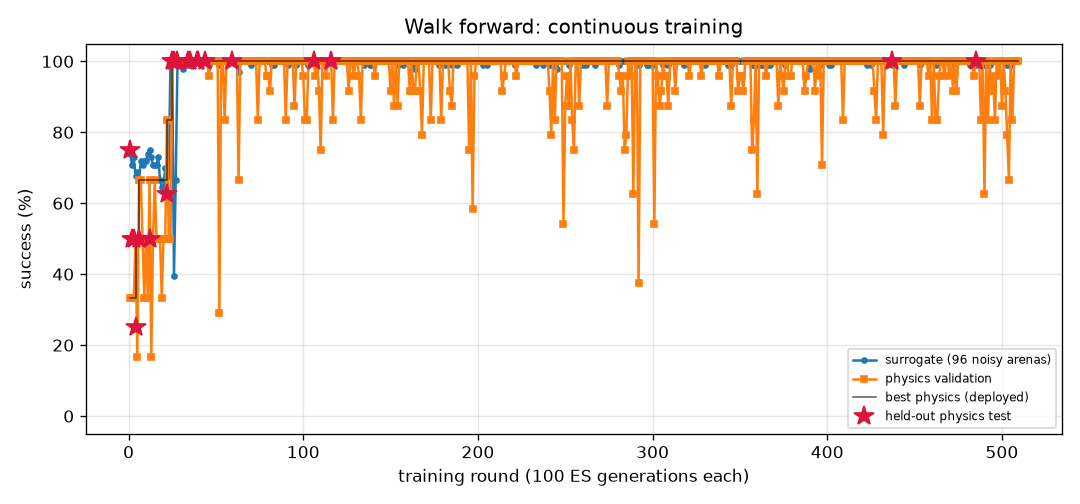
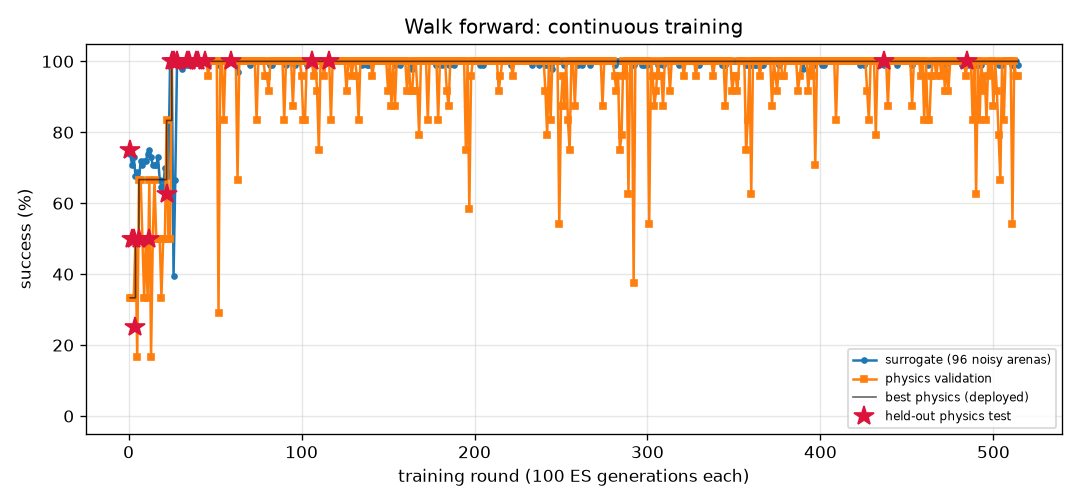
FlyLab: continuous training progress
- walk_forward: optimal, physics val 100% of 24, round 514
- turn: optimal, physics val 100% of 24, round 1311
- goto: optimal, physics val 100% of 24, round 397
- odor_seek: optimal, physics val 100% of 24, round 319
- odor_avoid: optimal, physics val 100% of 24, round 1106
- light_seek: optimal, physics val 100% of 24, round 599
- light_avoid: optimal, physics val 100% of 24, round 821

diff --git a/projects/09_flylab/training/walk_forward/REPORT.md b/projects/09_flylab/training/walk_forward/REPORT.md
@@ -1,14 +1,14 @@
 # Walk forward (`walk_forward`) — training report
 
-*Auto-generated by `train_brains.py`, last updated 2026-11-23T14:49:27.*
+*Auto-generated by `train_brains.py`, last updated 2026-11-23T18:19:44.*
 
 ![curve](curve.png)
 
 | | |
 |---|---|
-| rounds | 509 |
-| ES generations | 50900 |
-| physics runs | 12294 |
+| rounds | 514 |
+| ES generations | 51400 |
+| physics runs | 12414 |
 | status | **optimal** |
 | best brain | round 485: physics validation **100%** on 24 arenas, surrogate 100% |
 | held-out physics test | **100%** on 32 unseen arenas (95% CI 89%-100%) (errors: [0.14, 0.13, 0.15, 0.21, 0.14, 0.12, 0.13, 0.18, 0.2, 0.15, 0.13, 0.14, 0.2, 0.15, 0.12, 0.12, 0.14, 0.14, 0.13, 0.13, 0.14, 0.21, 0.14, 0.13, 0.14, 0.14, 0.18, 0.14, 0.14, 0.14, 0.17, 0.15]) |
@@ -17,11 +17,6 @@ Physics error per arena: mm from target at the end (< 1.5 and standing still = s
 
 | round | level | gens | sigma | surrogate | physics val | val errors | test | note |
 |---:|---:|---:|---:|---:|---:|---|---:|---|
-| 470 | 3 | 47000 | 0.025 | 100% | 96% | [0.18, 0.26, 0.15, 0.19, 0.26, 0.51, 0.26, 0.02, 0.26, 0.26, 0.17, 0.24, 0.05, 0.66, 0.21, 0.25, 0.17, 0.25, 0.03, 0.23, 0.2, 0.26, 0.23, 0.36] |  |  |
-| 471 | 3 | 47100 | 0.024 | 100% | 100% | [0.35, 0.33, 0.31, 0.35, 0.33, 0.29, 0.33, 0.33, 0.33, 0.31, 0.27, 0.29, 0.32, 0.29, 0.34, 0.3, 0.35, 0.33, 0.33, 0.34, 0.33, 0.31, 0.29, 0.32] |  |  |
-| 472 | 3 | 47200 | 0.024 | 99% | 92% | [0.17, 0.19, 1.25, 0.17, 0.19, 0.04, 0.2, 0.12, 0.2, 0.18, 0.02, 0.17, 0.13, 0.83, 0.18, 0.18, 0.16, 0.19, 0.13, 0.18, 0.14, 0.19, 0.07, 0.13] |  |  |
-| 473 | 3 | 47300 | 0.025 | 100% | 100% | [0.28, 0.31, 0.28, 0.29, 0.3, 0.27, 0.31, 0.29, 0.31, 0.32, 0.27, 0.34, 0.28, 0.28, 0.29, 0.33, 0.29, 0.3, 0.29, 0.29, 0.28, 0.33, 0.34, 0.28] |  | restart from best |
-| 474 | 3 | 47400 | 0.025 | 100% | 92% | [0.09, 0.22, 0.04, 0.1, 0.22, 0.06, 0.23, 0.11, 0.23, 0.26, 0.07, 0.25, 0.11, 0.27, 0.12, 0.25, 0.1, 0.2, 0.04, 0.07, 0.1, 0.26, 0.25, 0.1] |  |  |
 | 475 | 3 | 47500 | 0.024 | 100% | 100% | [0.24, 0.3, 0.21, 0.24, 0.3, 0.21, 0.3, 0.21, 0.3, 0.29, 0.22, 0.28, 0.2, 0.21, 0.25, 0.29, 0.23, 0.29, 0.2, 0.26, 0.21, 0.29, 0.27, 0.21] |  |  |
 | 476 | 3 | 47600 | 0.024 | 100% | 100% | [0.18, 0.23, 0.18, 0.18, 0.23, 0.18, 0.23, 0.19, 0.23, 0.24, 0.18, 0.23, 0.18, 0.18, 0.19, 0.23, 0.18, 0.22, 0.18, 0.2, 0.18, 0.24, 0.22, 0.18] |  |  |
 | 477 | 3 | 47700 | 0.024 | 100% | 100% | [0.22, 0.24, 0.22, 0.22, 0.24, 0.22, 0.25, 0.23, 0.25, 0.28, 0.22, 0.29, 0.23, 0.22, 0.21, 0.29, 0.21, 0.23, 0.22, 0.22, 0.22, 0.28, 0.29, 0.23] |  | restart from best |
@@ -57,3 +52,8 @@ Physics error per arena: mm from target at the end (< 1.5 and standing still = s
 | 507 | 3 | 50700 | 0.024 | 100% | 100% | [0.1, 0.13, 0.17, 0.07, 0.11, 0.17, 0.15, 0.17, 0.14, 0.19, 0.16, 0.21, 0.17, 0.16, 0.08, 0.21, 0.09, 0.1, 0.17, 0.09, 0.07, 0.2, 0.22, 0.17] |  |  |
 | 508 | 3 | 50800 | 0.024 | 100% | 100% | [0.2, 0.3, 0.23, 0.19, 0.3, 0.25, 0.31, 0.22, 0.3, 0.35, 0.26, 0.34, 0.22, 0.24, 0.21, 0.34, 0.19, 0.26, 0.22, 0.21, 0.2, 0.35, 0.33, 0.22] |  |  |
 | 509 | 3 | 50900 | 0.024 | 100% | 100% | [0.06, 0.07, 0.08, 0.1, 0.06, 0.09, 0.21, 0.1, 0.19, 0.08, 0.1, 0.09, 0.08, 0.08, 0.02, 0.04, 0.08, 0.2, 0.05, 0.08, 0.09, 0.1, 0.08, 0.08] |  | restart from best |
+| 510 | 3 | 51000 | 0.024 | 100% | 100% | [0.33, 0.34, 0.26, 0.33, 0.34, 0.25, 0.34, 0.29, 0.33, 0.32, 0.24, 0.31, 0.28, 0.25, 0.34, 0.32, 0.33, 0.34, 0.29, 0.34, 0.3, 0.33, 0.3, 0.29] |  |  |
+| 511 | 3 | 51100 | 0.024 | 99% | 54% | [0.04, 1.28, 0.04, 0.7, 0.41, 0.06, 2.54, 0.05, 0.34, 0.48, 0.04, 0.08, 0.05, 1.59, 1.42, 0.27, 0.07, 0.18, 0.05, 1.69, 0.06, 0.06, 0.5, 0.06] |  |  |
+| 512 | 3 | 51200 | 0.025 | 100% | 100% | [0.3, 0.31, 0.09, 0.3, 0.31, 0.25, 0.31, 0.27, 0.31, 0.22, 0.02, 0.2, 0.27, 0.06, 0.31, 0.21, 0.29, 0.3, 0.28, 0.31, 0.28, 0.23, 0.22, 0.27] |  |  |
+| 513 | 3 | 51300 | 0.024 | 100% | 96% | [0.24, 0.28, 0.05, 0.24, 0.28, 0.06, 0.29, 0.22, 0.28, 0.29, 0.09, 0.28, 0.08, 0.03, 0.25, 0.28, 0.23, 0.27, 0.07, 0.26, 0.22, 0.29, 0.28, 0.07] |  | restart from best |
+| 514 | 3 | 51400 | 0.024 | 99% | 96% | [0.23, 0.23, 0.13, 0.22, 0.24, 0.07, 0.23, 0.19, 0.23, 0.23, 0.27, 0.2, 0.19, 0.03, 0.23, 0.21, 0.21, 0.25, 0.2, 0.24, 0.2, 0.23, 0.09, 0.18] |  |  |

diff --git a/projects/09_flylab/training/goto/REPORT.md b/projects/09_flylab/training/goto/REPORT.md
@@ -1,14 +1,14 @@
 # Go to a location (`goto`) — training report
 
-*Auto-generated by `train_brains.py`, last updated 2026-11-23T17:24:45.*
+*Auto-generated by `train_brains.py`, last updated 2026-11-23T18:09:50.*
 
 ![curve](curve.png)
 
 | | |
 |---|---|
-| rounds | 394 |
-| ES generations | 39400 |
-| physics runs | 9406 |
+| rounds | 397 |
+| ES generations | 39700 |
+| physics runs | 9478 |
 | status | **optimal** |
 | best brain | round 176: physics validation **100%** on 24 arenas, surrogate 100% |
 | held-out physics test | **100%** on 32 unseen arenas (95% CI 89%-100%) (errors: [0.2, 0.32, 0.19, 0.24, 0.18, 0.2, 0.19, 0.17, 0.22, 0.23, 0.23, 0.26, 0.2, 0.19, 0.24, 0.23, 0.22, 0.24, 0.2, 0.22, 0.2, 0.2, 0.26, 0.19, 0.22, 0.18, 0.26, 0.22, 0.2, 0.26, 0.23, 0.23]) |
@@ -17,9 +17,6 @@ Physics error per arena: mm from target at the end (< 1.5 and standing still = s
 
 | round | level | gens | sigma | surrogate | physics val | val errors | test | note |
 |---:|---:|---:|---:|---:|---:|---|---:|---|
-| 355 | 3 | 35500 | 0.024 | 99% | 100% | [0.54, 0.54, 0.4, 0.43, 0.4, 0.44, 0.49, 0.45, 0.47, 0.39, 0.39, 0.41, 0.49, 0.43, 0.42, 0.47, 0.54, 0.42, 0.39, 0.47, 0.44, 0.38, 0.52, 0.45] |  |  |
-| 356 | 3 | 35600 | 0.025 | 100% | 100% | [0.62, 0.58, 0.44, 0.45, 0.43, 0.46, 0.6, 0.45, 0.51, 0.45, 0.43, 0.45, 0.56, 0.43, 0.48, 0.49, 0.55, 0.49, 0.45, 0.5, 0.48, 0.45, 0.55, 0.46] |  | restart from best |
-| 357 | 3 | 35700 | 0.024 | 100% | 100% | [0.57, 0.53, 0.47, 0.52, 0.42, 0.47, 0.57, 0.54, 0.56, 0.45, 0.45, 0.52, 0.58, 0.43, 0.52, 0.49, 0.59, 0.47, 0.44, 0.56, 0.46, 0.49, 0.59, 0.49] |  |  |
 | 358 | 3 | 35800 | 0.024 | 99% | 100% | [0.53, 0.45, 0.44, 0.49, 0.39, 0.43, 0.5, 0.47, 0.5, 0.41, 0.43, 0.47, 0.52, 0.38, 0.47, 0.43, 0.55, 0.42, 0.4, 0.55, 0.39, 0.46, 0.5, 0.46] |  |  |
 | 359 | 3 | 35900 | 0.025 | 92% | 100% | [0.26, 0.26, 0.19, 0.26, 0.19, 0.23, 0.24, 0.28, 0.27, 0.19, 0.2, 0.24, 0.28, 0.22, 0.21, 0.25, 0.29, 0.24, 0.18, 0.27, 0.23, 0.19, 0.29, 0.25] |  |  |
 | 360 | 3 | 36000 | 0.029 | 99% | 100% | [0.65, 0.61, 0.59, 0.54, 0.48, 0.52, 0.66, 0.57, 0.61, 0.5, 0.48, 0.53, 0.62, 0.46, 0.56, 0.51, 0.65, 0.53, 0.5, 0.6, 0.51, 0.56, 0.62, 0.56] |  | restart from best |
@@ -57,3 +54,6 @@ Physics error per arena: mm from target at the end (< 1.5 and standing still = s
 | 392 | 3 | 39200 | 0.024 | 100% | 100% | [0.48, 0.46, 0.34, 0.42, 0.32, 0.39, 0.49, 0.42, 0.47, 0.36, 0.33, 0.4, 0.49, 0.35, 0.4, 0.42, 0.51, 0.39, 0.34, 0.49, 0.39, 0.39, 0.5, 0.41] |  | restart from best |
 | 393 | 3 | 39300 | 0.024 | 100% | 100% | [0.39, 0.39, 0.33, 0.4, 0.32, 0.38, 0.42, 0.42, 0.39, 0.35, 0.34, 0.4, 0.4, 0.35, 0.38, 0.37, 0.44, 0.36, 0.35, 0.38, 0.34, 0.38, 0.42, 0.42] |  |  |
 | 394 | 3 | 39400 | 0.024 | 99% | 100% | [0.63, 0.57, 0.47, 0.61, 0.46, 0.57, 0.57, 0.64, 0.65, 0.46, 0.52, 0.59, 0.67, 0.49, 0.5, 0.54, 0.62, 0.59, 0.46, 0.65, 0.5, 0.5, 0.63, 0.62] |  |  |
+| 395 | 3 | 39500 | 0.025 | 100% | 100% | [0.56, 0.58, 0.44, 0.49, 0.43, 0.49, 0.54, 0.56, 0.54, 0.42, 0.42, 0.46, 0.57, 0.47, 0.5, 0.49, 0.59, 0.49, 0.42, 0.53, 0.48, 0.41, 0.57, 0.53] |  |  |
+| 396 | 3 | 39600 | 0.024 | 99% | 100% | [0.45, 0.4, 0.41, 0.37, 0.3, 0.34, 0.4, 0.38, 0.43, 0.32, 0.33, 0.37, 0.42, 0.31, 0.36, 0.35, 0.44, 0.34, 0.3, 0.41, 0.33, 0.34, 0.43, 0.35] |  | restart from best |
+| 397 | 3 | 39700 | 0.024 | 98% | 100% | [0.25, 0.25, 0.2, 0.24, 0.18, 0.23, 0.23, 0.26, 0.28, 0.16, 0.19, 0.22, 0.26, 0.2, 0.14, 0.21, 0.26, 0.25, 0.17, 0.25, 0.2, 0.18, 0.26, 0.25] |  |  |

diff --git a/projects/09_flylab/training/odor_seek/REPORT.md b/projects/09_flylab/training/odor_seek/REPORT.md
@@ -1,14 +1,14 @@
 # Find food by smell (`odor_seek`) — training report
 
-*Auto-generated by `train_brains.py`, last updated 2026-11-23T15:00:58.*
+*Auto-generated by `train_brains.py`, last updated 2026-11-23T18:27:18.*
 
 ![curve](curve.png)
 
 | | |
 |---|---|
-| rounds | 318 |
-| ES generations | 31800 |
-| physics runs | 7126 |
+| rounds | 319 |
+| ES generations | 31900 |
+| physics runs | 7150 |
 | status | **optimal** |
 | best brain | round 240: physics validation **100%** on 24 arenas, surrogate 100% |
 | held-out physics test | **100%** on 32 unseen arenas (95% CI 89%-100%) (errors: [0.02, 0.03, 0.03, 0.05, 0.04, 0.05, 0.06, 0.07, 0.09, 0.05, 0.05, 0.01, 0.12, 0.03, 0.07, 0.08, 0.02, 0.06, 0.03, 0.04, 0.0, 0.01, 0.09, 0.05, 0.04, 0.01, 0.07, 0.05, 0.08, 0.05, 0.05, 0.02]) |
@@ -17,7 +17,6 @@ Physics error per arena: mm from target at the end (< 1.5 and standing still = s
 
 | round | level | gens | sigma | surrogate | physics val | val errors | test | note |
 |---:|---:|---:|---:|---:|---:|---|---:|---|
-| 279 | 3 | 27900 | 0.024 | 100% | 100% | [0.23, 0.22, 0.19, 0.22, 0.17, 0.16, 0.21, 0.19, 0.29, 0.19, 0.26, 0.27, 0.16, 0.24, 0.19, 0.24, 0.2, 0.3, 0.17, 0.2, 0.3, 0.24, 0.2, 0.16] |  |  |
 | 280 | 3 | 28000 | 0.024 | 100% | 100% | [0.19, 0.24, 0.19, 0.24, 0.21, 0.17, 0.21, 0.12, 0.21, 0.24, 0.24, 0.23, 0.19, 0.2, 0.24, 0.25, 0.19, 0.28, 0.21, 0.22, 0.17, 0.23, 0.17, 0.19] |  | restart from best |
 | 281 | 3 | 28100 | 0.024 | 100% | 100% | [0.1, 0.04, 0.08, 0.1, 0.09, 0.07, 0.11, 0.2, 0.21, 0.05, 0.06, 0.04, 0.09, 0.11, 0.15, 0.07, 0.06, 0.1, 0.09, 0.12, 0.03, 0.08, 0.05, 0.13] |  |  |
 | 282 | 3 | 28200 | 0.024 | 100% | 100% | [0.24, 0.19, 0.2, 0.11, 0.18, 0.21, 0.23, 0.15, 0.12, 0.11, 0.21, 0.23, 0.2, 0.19, 0.29, 0.19, 0.17, 0.23, 0.13, 0.18, 0.12, 0.11, 0.19, 0.23] |  |  |
@@ -57,3 +56,4 @@ Physics error per arena: mm from target at the end (< 1.5 and standing still = s
 | 316 | 3 | 31600 | 0.024 | 100% | 100% | [0.08, 0.2, 0.16, 0.17, 0.1, 0.2, 0.12, 0.25, 0.21, 0.2, 0.13, 0.14, 0.14, 0.12, 0.21, 0.16, 0.16, 0.17, 0.16, 0.09, 0.1, 0.12, 0.14, 0.12] |  | restart from best |
 | 317 | 3 | 31700 | 0.024 | 100% | 100% | [0.14, 0.13, 0.14, 0.18, 0.13, 0.17, 0.16, 0.2, 0.12, 0.13, 0.15, 0.21, 0.16, 0.18, 0.2, 0.11, 0.12, 0.16, 0.17, 0.17, 0.21, 0.12, 0.19, 0.13] |  |  |
 | 318 | 3 | 31800 | 0.024 | 100% | 100% | [0.12, 0.12, 0.12, 0.1, 0.14, 0.12, 0.11, 0.18, 0.14, 0.16, 0.11, 0.13, 0.13, 0.15, 0.14, 0.08, 0.17, 0.17, 0.14, 0.18, 0.08, 0.09, 0.09, 0.19] |  |  |
+| 319 | 3 | 31900 | 0.024 | 100% | 100% | [0.14, 0.13, 0.09, 0.1, 0.23, 0.14, 0.13, 0.16, 0.21, 0.17, 0.11, 0.09, 0.11, 0.23, 0.08, 0.11, 0.14, 0.23, 0.1, 0.11, 0.03, 0.07, 0.16, 0.16] |  |  |

diff --git a/projects/09_flylab/training/TRAINING.md b/projects/09_flylab/training/TRAINING.md
@@ -1,15 +1,15 @@
 # FlyLab brains — continuous training log
 
-*Auto-generated by `train_brains.py`, last updated 2026-11-23T17:24:59.*
+*Auto-generated by `train_brains.py`, last updated 2026-11-23T18:27:18.*
 
 Every skill has its own brain and its own training process: surrogate ES rounds, physics validation in MuJoCo, keep-the-best selection, and a held-out physics test that is never used for selection. See each skill's report for its full round-by-round history. Mastery is progressive: passing a level (100% physics validation, >=95% surrogate) doubles the validation and test arena sets; a brain is **optimal** once it holds up at level 3 (>=95% of 24 validation arenas) AND scores >=90% on the 32 held-out test arenas. Test columns show 95% Wilson confidence intervals.
 
 | skill | rounds | ES generations | physics runs | surrogate | physics val | **physics test** | status |
 |---|---:|---:|---:|---:|---:|---:|---|
-| [Walk forward](walk_forward/REPORT.md) | 509 | 50900 | 12294 | 100% | 100% of 24 | 100% of 32 (CI 89-100%) | **optimal** |
+| [Walk forward](walk_forward/REPORT.md) | 514 | 51400 | 12414 | 100% | 100% of 24 | 100% of 32 (CI 89-100%) | **optimal** |
 | [Turn in place](turn/REPORT.md) | 1311 | 131100 | 31710 | 100% | 100% of 24 | 97% of 32 (CI 84-99%) | **optimal** |
-| [Go to a location](goto/REPORT.md) | 394 | 39400 | 9406 | 100% | 100% of 24 | 100% of 32 (CI 89-100%) | **optimal** |
-| [Find food by smell](odor_seek/REPORT.md) | 318 | 31800 | 7126 | 100% | 100% of 24 | 100% of 32 (CI 89-100%) | **optimal** |
+| [Go to a location](goto/REPORT.md) | 397 | 39700 | 9478 | 100% | 100% of 24 | 100% of 32 (CI 89-100%) | **optimal** |
+| [Find food by smell](odor_seek/REPORT.md) | 319 | 31900 | 7150 | 100% | 100% of 24 | 100% of 32 (CI 89-100%) | **optimal** |
 | [Escape a bad smell](odor_avoid/REPORT.md) | 1106 | 110600 | 23850 | 97% | 100% of 24 | 97% of 32 (CI 84-99%) | **optimal** |
 | [Walk toward light](light_seek/REPORT.md) | 599 | 59900 | 11256 | 100% | 100% of 24 | 100% of 32 (CI 89-100%) | **optimal** |
 | [Hide from light](light_avoid/REPORT.md) | 821 | 82100 | 19976 | 100% | 100% of 24 | 100% of 32 (CI 89-100%) | **optimal** |
